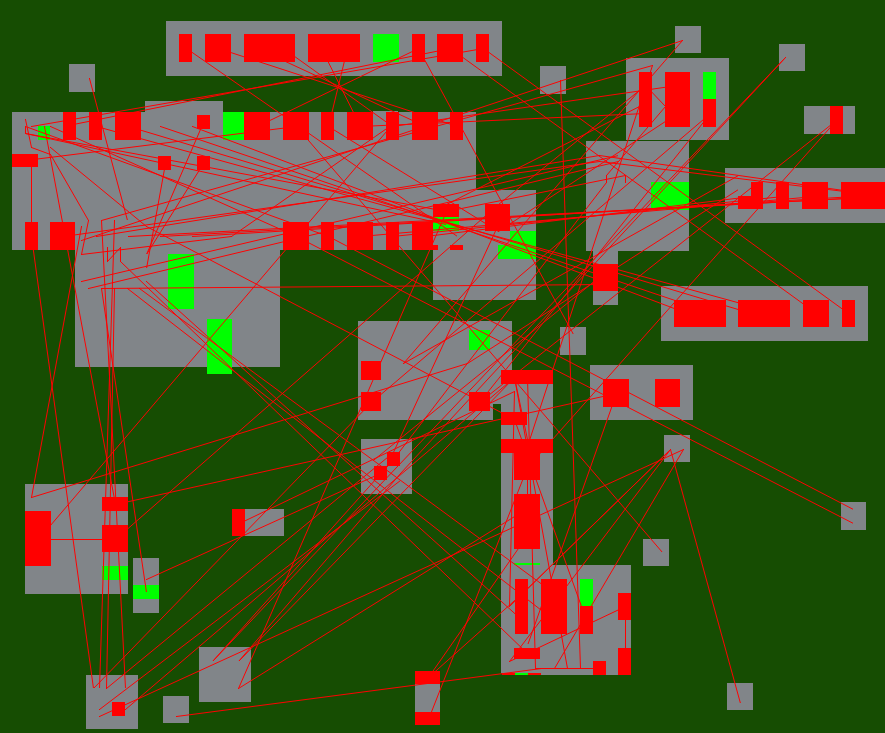
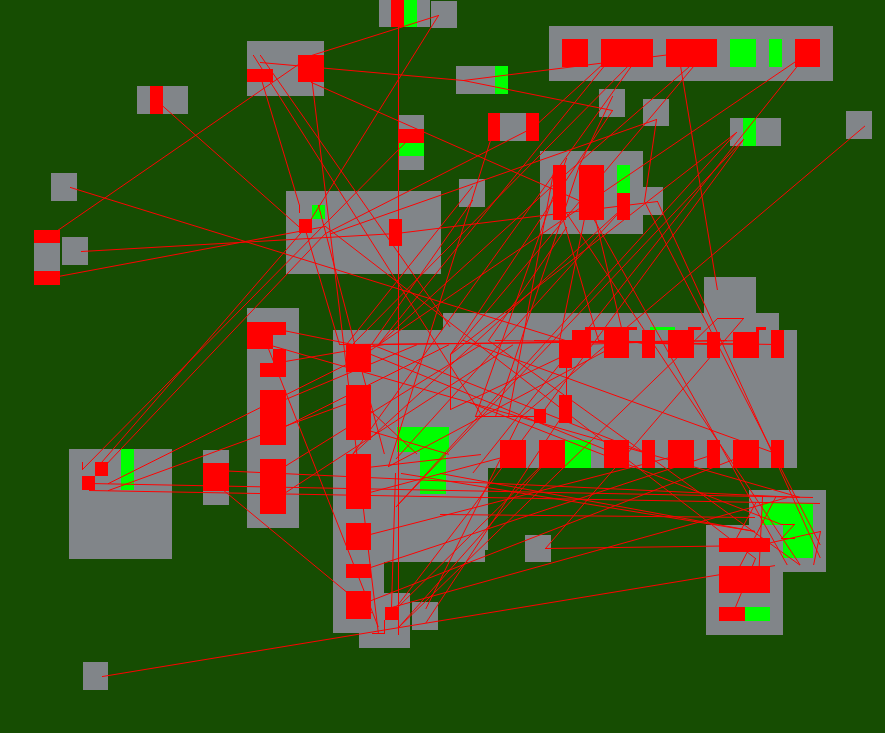
adding PSA struct

diff --git a/pcb-layout/src/kicad_parse.rs b/pcb-layout/src/kicad_parse.rs
@@ -20,9 +20,12 @@ fn parse_kicad_line_to_floats(passed_str: &str) -> Option<(f64, f64)> {
 /// # Responsible for parsing a kicad
 /// Takes a filename as an &str
 ///
-///
-///
-///
+/// Right now this is bad and needs to be redone. There is a far easier & more robust solution to this problem but
+/// I just wanted something that worked so I did it the lazy way.
+/// Currently the pcb_layer and footprint layer are hardcoded
+/// This parser cant handle polygons (or anything non rectangular) and will always generate the extents as the min(x,y) max(x,y)
+/// this means that if you change to a layer that also has text shapes for footprint you can get wrong sized comps
+/// 
 ///
 ///
 pub fn parse_file(file_path: &str) -> Placement {
@@ -57,12 +60,8 @@ pub fn parse_file(file_path: &str) -> Placement {
         if !in_doc {
             break;
         };
-        //for line in contents.split("\n"){
-
-        //print!("{}",line);
-        //println!("{}",line);
+        // The first thing we will see is nets
         if line.starts_with("\t(net ") && line.trim_end().ends_with("\")") {
-            //println!("{}",line);
             let words: Vec<&str> = line.split(" ").collect();
             let net_idx = words[1].parse::<i32>().unwrap();
             let net_name = words[2]
@@ -70,9 +69,9 @@ pub fn parse_file(file_path: &str) -> Placement {
                 .strip_suffix(|_: char| true)
                 .unwrap()
                 .replace("\"", "");
-            //println!("{} : {}", net_idx, net_name);
             net_map.insert(net_idx, net_name);
         }
+        // Now we can find our components and their footprints
         if line.starts_with("\t(footprint ") {
             let _ = content_iter.next().unwrap();
             let _ = content_iter.next().unwrap();
@@ -95,10 +94,7 @@ pub fn parse_file(file_path: &str) -> Placement {
                 .replace("\"", "")
                 .trim()
                 .to_string();
-            //println!("new Device: {}", refdes_str.clone());
-            //println!("{}", refdes_str.clone());
             refdes = &refdes_str;
-            //println!("{} at ({},{}) ", refdes_str, x1,y1);
             let mut in_shape: bool = true;
             while in_shape {
                 while !line.contains("fp_") {
@@ -117,6 +113,7 @@ pub fn parse_file(file_path: &str) -> Placement {
                 }
 
                 //now were in a shape
+                
                 let start = content_iter.next().unwrap().trim();
                 let end = content_iter.next().unwrap().trim();
                 while !line.contains("layer") {
@@ -160,17 +157,11 @@ pub fn parse_file(file_path: &str) -> Placement {
                         }
                     }
                     if line.contains("model") || line.starts_with("\t)") {
-                        //println!("Found all {} pins for {}", pin_vec.len(), refdes);
                         break;
                     }
                     if line.contains("pad ") {
                         line = content_iter.next().unwrap();
-                        //println!("{}", line);
                         let (mut px1, mut py1) = parse_kicad_line_to_floats(line).unwrap();
-                        //px1 += comp_bbox.centerx;
-                        //py1 += comp_bbox.centery;
-                        //px1 += comp_bbox.x1;
-                        //py1 += comp_bbox.y1;
                         px1 += x1;
                         py1 += y1;
                         line = content_iter.next().unwrap();
@@ -180,10 +171,7 @@ pub fn parse_file(file_path: &str) -> Placement {
 
                         px2 += px1;
                         py2 += py1;
-                        //let px2 =
-                        //println!("{}, {}", px2, py2);
                         while !line.contains("net") && !line.starts_with("\t\t)") {
-                            //println!("{}", line);
                             line = content_iter.next().unwrap();
                         }
                         let mut net = 0;
@@ -201,7 +189,6 @@ pub fn parse_file(file_path: &str) -> Placement {
                     }
                 } //end outer pin loop( we should have all our pins)
 
-                //println!("{}, {}",, ys[ys.len()-1]);
 
                 let mut comp: Component = Component {
                     refdes: refdes.to_string(),
@@ -213,16 +200,13 @@ pub fn parse_file(file_path: &str) -> Placement {
                     comp.rotate_comp(rotation);
                 }
 
-                //println!("{:?}", comp.pins.len());
                 comp_vec.push(comp);
             }
             xs.clear();
             ys.clear();
 
-            //Bbox::new(xs[0], x2, y1, y2)
-            //in_doc = line.contains("gr_rect");
         }
-
+        //Lastly using all the shapes, lets find the pcb outline
         if line.contains("(gr_") {
             let start = content_iter.next().unwrap().trim();
             let end = content_iter.next().unwrap().trim();
@@ -259,5 +243,4 @@ pub fn parse_file(file_path: &str) -> Placement {
         placement_area: pl_area,
         net_map,
     }
-    //println!("{:?}", net_map);
 }

diff --git a/pcb-layout/src/sa.rs b/pcb-layout/src/sa.rs
@@ -4,7 +4,24 @@ use colored::Colorize;
 use ga::Individual;
 use rand::prelude::*;
 use std::time::Instant;
+struct ParetoFront{
+    front:Vec<& Individual>,
+}
+impl ParetoFront {
+    fn check_and_clean(&mut self, ind: &mut Individual){
+        let cur_hpwl = ind.hpwl_score();
+        let cur_area = ind.area_score();
+        let mut should_add = self.front.len() == 0;
+        let mut to_remove: Vec<& Individual> = Vec::new();
+        for i in self.front.iter_mut(){
+            
+        }
+        if should_add{
+            self.front.push(ind);
+        }
 
+    }
+}
 pub fn log_cool(start_temp: f64, iter: i32) -> f64 {
     //C / log(1 + i)
     start_temp / ((1.0 + iter as f64).log2())
@@ -14,6 +31,61 @@ pub fn linear_cool(start_temp: f64, iter: i32) -> f64 {
     start_temp - iter as f64 * 0.001
 }
 pub fn quick_sa(
+    mut ind: Individual,
+    cooling_schedule: fn(f64, i32) -> f64,
+    max_count: i32,
+    print_time: bool,
+) -> Individual {
+    let mut rng = rand::rng();
+    let start_temp = 100.0;
+    let mut temp = start_temp;
+    let now = Instant::now();
+    let mut old_fit = ind.score();
+    //Go to stop
+    let mut count = 0;
+    if print_time {
+        println!(
+            "{}",
+            format!(
+                "+++++++Test (Simulated Annealing , Max Iterations: {}) +++++++",
+                max_count
+            )
+            .green()
+        );
+        println!("Original Score: {}", ind.score());
+    }
+
+    while temp > 0.0 && count < max_count {
+        let mut new_ind = ind.clone();
+        if new_ind.mutate(&mut rng) {
+            //Compare fitness
+            let new_fit = new_ind.score();
+            let fitness_diff = old_fit / new_fit;
+            let acceptance_odds = fitness_diff * (temp / start_temp);
+            //println!("Iter {}: temp: {}, old_fitness: {}, new fitness: {}, fitness_diff: {}, odds:{}", count, temp, old_fit , new_fit, fitness_diff, acceptance_odds);
+            if acceptance_odds > rng.random_range(0.0..=1.0) {
+                ind = new_ind;
+                old_fit = new_fit;
+            }
+        }
+        temp = cooling_schedule(start_temp, count);
+        count += 1;
+    }
+    if print_time {
+        println!("New Score: {}", ind.score());
+        let elapsed_time = now.elapsed();
+        println!(
+            "\n{} iterations took {}.{} seconds.",
+            count,
+            elapsed_time.as_secs(),
+            elapsed_time.subsec_millis()
+        );
+        println!("\n{}", "+++++++Test Over+++++++".to_string().green());
+    }
+    ind
+}
+
+pub fn pareto_sa(
     mut ind: Individual,
     cooling_schedule: fn(f64, i32) -> f64,
     max_count: i32,

diff --git a/pcb-layout/src/ga.rs b/pcb-layout/src/ga.rs
@@ -53,8 +53,8 @@ impl Individual {
         let padding = 10.0;
         let scale = 10.0;
 
-        let pl_width = scale * (self.pl_area.get_width_fl() + padding * 2.0);
-        let pl_height = scale * (self.pl_area.get_height_fl() + padding * 2.0);
+        let pl_width = scale * (self.pl_area.get_width() + padding * 2.0);
+        let pl_height = scale * (self.pl_area.get_height() + padding * 2.0);
         //let style = TextStyle::from(("sans-serif", scale).into_font()).color(&RED);
         let mut pins_by_net: BTreeMap<i32, Vec<(f64, f64)>> = BTreeMap::new();
         for k in net_map.keys() {
@@ -66,8 +66,8 @@ impl Individual {
         )
         .into_drawing_area();
         let backend = backend.apply_coord_spec(Cartesian2d::<RangedCoordf64, RangedCoordf64>::new(
-            0f64..self.pl_area.get_width_fl(),
-            0f64..self.pl_area.get_height_fl(),
+            0f64..self.pl_area.get_width(),
+            0f64..self.pl_area.get_height(),
             (0..pl_width.floor() as i32, 0..pl_height.round() as i32),
         ));
         let _ = backend.fill(&WHITE);
@@ -273,6 +273,14 @@ impl Individual {
             3 => self.rotate(a, random_rotation(rng)),
             _ => false,
         }
+    }
+    pub fn hpwl_score(& mut self) -> f64{
+        hpwl(&self.comp_list)
+    
+    }
+    pub fn area_score(& mut self) -> f64{
+        placement_area(&self.comp_list)
+        
     }
 }
 /// Little helper fn for generating a 100 images

diff --git a/pcb-layout/src/plcmnt.rs b/pcb-layout/src/plcmnt.rs
@@ -28,11 +28,11 @@ impl Bbox {
         self.centerx = self.x1 + ((self.x1 - self.x2).abs() / 2.0);
         self.centery = self.y1 + ((self.y1 - self.y2).abs() / 2.0);
     }
-
-    pub fn get_width_fl(&self) -> f64 {
+    
+    pub fn get_width(&self) -> f64 {
         (self.x1 - self.x2).abs()
     }
-    pub fn get_height_fl(&self) -> f64 {
+    pub fn get_height(&self) -> f64 {
         (self.y1 - self.y2).abs()
     }
     ///Helper function for plotting
@@ -229,7 +229,7 @@ pub fn hpwl(comps: &Vec<Component>) -> f64 {
             };
         }
         let net_bbox = Bbox::new(min_x, max_x, min_y, max_y);
-        total_wl += net_bbox.get_height_fl() + net_bbox.get_width_fl();
+        total_wl += net_bbox.get_height() + net_bbox.get_width();
     }
     total_wl
 }
